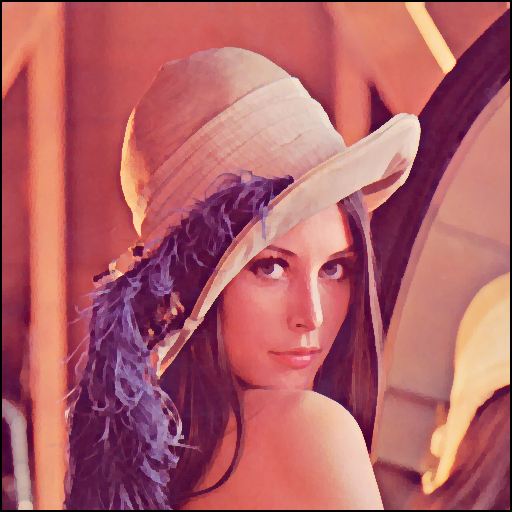
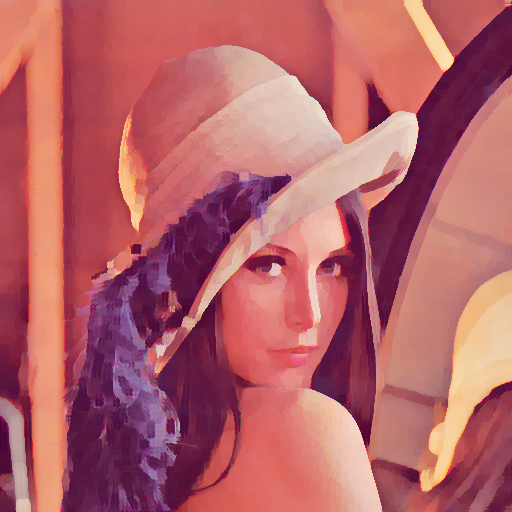
vectorized kuwahara filter

diff --git a/kuwahara/kuwahara_image_base.py b/kuwahara/kuwahara_image_base.py
@@ -1,8 +1,6 @@
 import numpy as np
-import math
-import cv2
+from scipy.signal import convolve2d
 from image_base import ImageBase
-from typing import Union
 
 class KuwaharaFilterImage(ImageBase):
     def __init__(self, image_name: str, image_mode: str, kernel_size: int = 5, n_subregions: int = 4):
@@ -12,109 +10,72 @@ class KuwaharaFilterImage(ImageBase):
         )
         self.kernel_size = kernel_size
         self.n_subregions = n_subregions
-        self.padding = math.floor(kernel_size / 2)
+        self.padding = (kernel_size - 1) // 2
         self.padded_image = self.pad_image()
-        self.variance_lookup = self.precompute_variance_lookup()
         
     def pad_image(self, image_array: np.array = None, pad_type: str = "mirror"):
         if image_array is None:
             image_array = self.image
         if pad_type == "mirror":
-            image_array = np.pad(image_array, self.padding, mode='reflect')
+            image_array = np.pad(image_array, ((self.padding, self.padding), (self.padding, self.padding), (0, 0)), mode='reflect')
         elif pad_type == "zero":
-            image_array = np.pad(image_array, self.padding, mode='constant')
+            image_array = np.pad(image_array, ((self.padding, self.padding), (self.padding, self.padding), (0, 0)), mode='constant')
         else:
             raise ValueError("pad_type must be either 'mirror' or 'zero'")
         
-        print("Padded image shape")
+        print("Padded image shape:", image_array.shape)
         return image_array
 
-    def precompute_variance_lookup(self, padded_image: np.array = None):
-        if padded_image is None:
-            padded_image = self.padded_image
-
-        height, width, channels = padded_image.shape
-        variance_lookup = {
-            "top_left": np.zeros((height, width, channels)),
-            "top_right": np.zeros((height, width, channels)),
-            "bottom_left": np.zeros((height, width, channels)),
-            "bottom_right": np.zeros((height, width, channels))
-        }
-
-        for y in range(self.padding, height - self.padding):
-            for x in range(self.padding, width - self.padding):
-                for c in range(channels):
-                    neighborhood = padded_image[
-                        y - self.padding : y + self.padding + 1,
-                        x - self.padding : x + self.padding + 1,
-                        c
-                    ]
-                    quadrants = self.get_quadrants(neighborhood)
-                    for quadrant_name, quadrant in quadrants.items():
-                        variance_lookup[quadrant_name][y, x, c] = np.var(quadrant)
-
-        print("Variance lookup table")
-        return variance_lookup
-    
-    def apply_kuwahara_filter(self, image_array: np.array = None, padded_image: np.array = None):
+    def apply_kuwahara_filter(self, image_array: np.array = None):
         if image_array is None:
             image_array = self.image
-        if padded_image is None:
-            padded_image = self.padded_image
         
-        height, width, channels = image_array.shape
-        filtered_image = np.zeros_like(image_array)
-
-        for y in range(height - self.padding):
-            for x in range(width - self.padding):
-                for c in range(channels):
-                    neighborhood = self.get_neighbors(x, y, padded_image[:, :, c])
-                    quadrants = self.get_quadrants(neighborhood)
-                    best_mean = None
-                    smallest_variance = float('inf')
-                    
-                    for quadrant_name, quadrant in quadrants.items():
-                        mean = np.mean(quadrant)
-                        variance = self.variance_lookup[quadrant_name][y, x, c]
-
-                        if variance < smallest_variance:
-                            smallest_variance = variance
-                            best_mean = mean
-
-                    if best_mean is None:
-                        best_mean = image_array[y, x, c]
-
-                    filtered_image[y, x, c] = best_mean
-
-        filtered_image_rgb = filtered_image[:, :, ::-1]
-        return filtered_image_rgb
-
-
-    def get_neighbors(self, x: int, y: int, padded_image: np.array = None):
-        if padded_image is None:
-            padded_image = self.padded_image
-
-        neighborhood = padded_image[
-            y - self.padding : y + self.padding + 1,
-            x - self.padding : x + self.padding + 1
-        ]
-
-        return neighborhood
-    
-    def get_quadrants(self, neighborhood: np.array):
-        center = self.padding
-        quadrants = {
-            "top_left": neighborhood[:center + 1, :center + 1],
-            "top_right": neighborhood[:center + 1, center:],
-            "bottom_left": neighborhood[center:, :center +1 ],
-            "bottom_right": neighborhood[center:, center:]
-        }
-
-        return quadrants
-            
+        if len(image_array.shape) == 2:
+            filtered_image = self.Kuwahara(image_array, self.kernel_size)
+        elif len(image_array.shape) == 3:
+            filtered_channels = []
+            for channel in range(image_array.shape[2]):
+                filtered_channel = self.Kuwahara(image_array[:, :, channel], self.kernel_size)
+                filtered_channels.append(filtered_channel)
+            filtered_image = np.stack(filtered_channels, axis=2)
+        else:
+            raise ValueError("Unsupported image format. Image must be grayscale or color (2D or 3D array).")
         
+        return filtered_image
 
+    def Kuwahara(self, image_array, kernel_size):
+        image = image_array.astype(np.float64)
+        if kernel_size % 4 != 1:
+            raise Exception("Invalid kernel_size %s: kernel_size must follow formula: w = 4*n+1." % kernel_size)
 
-                
+        half_size = (kernel_size - 1) // 2
+        tmpAvgKerRow = np.hstack((np.ones((1, half_size + 1)), np.zeros((1, half_size))))
+        tmpPadder = np.zeros((1, kernel_size))
+        tmpavgker = np.tile(tmpAvgKerRow, (half_size + 1, 1))
+        tmpavgker = np.vstack((tmpavgker, np.tile(tmpPadder, (half_size, 1))))
+        tmpavgker = tmpavgker / np.sum(tmpavgker)
 
+        avgker = np.empty((4, kernel_size, kernel_size)) 
+        avgker[0] = tmpavgker			    # North-west (a)
+        avgker[1] = np.fliplr(tmpavgker)	# North-east (b)
+        avgker[2] = np.flipud(tmpavgker)	# South-west (c)
+        avgker[3] = np.fliplr(avgker[2])	# South-east (d)
         
+        squaredImg = image**2
+        
+        avgs = np.zeros([4, image.shape[0], image.shape[1]])
+        stddevs = avgs.copy()
+
+        for k in range(4):
+            avgs[k] = convolve2d(image, avgker[k], mode='same')
+            stddevs[k] = convolve2d(squaredImg, avgker[k], mode='same')
+            stddevs[k] = stddevs[k] - avgs[k]**2
+        
+        indices = np.argmin(stddevs, 0)
+
+        filtered = np.zeros(image_array.shape)
+        for row in range(image_array.shape[0]):
+            for col in range(image_array.shape[1]):
+                filtered[row, col] = avgs[indices[row, col], row, col]
+
+        return filtered.astype(np.uint8)

diff --git a/kuwahara/kuwahara.py b/kuwahara/kuwahara.py
@@ -1,8 +1,8 @@
 from kuwahara.kuwahara_image_base import KuwaharaFilterImage
 
 image = KuwaharaFilterImage(
-    image_name="Lenna.png",
+    image_name="marti_test.jpg",
     image_mode="BGR",
-    kernel_size=5,
+    kernel_size=9,
 )
 
